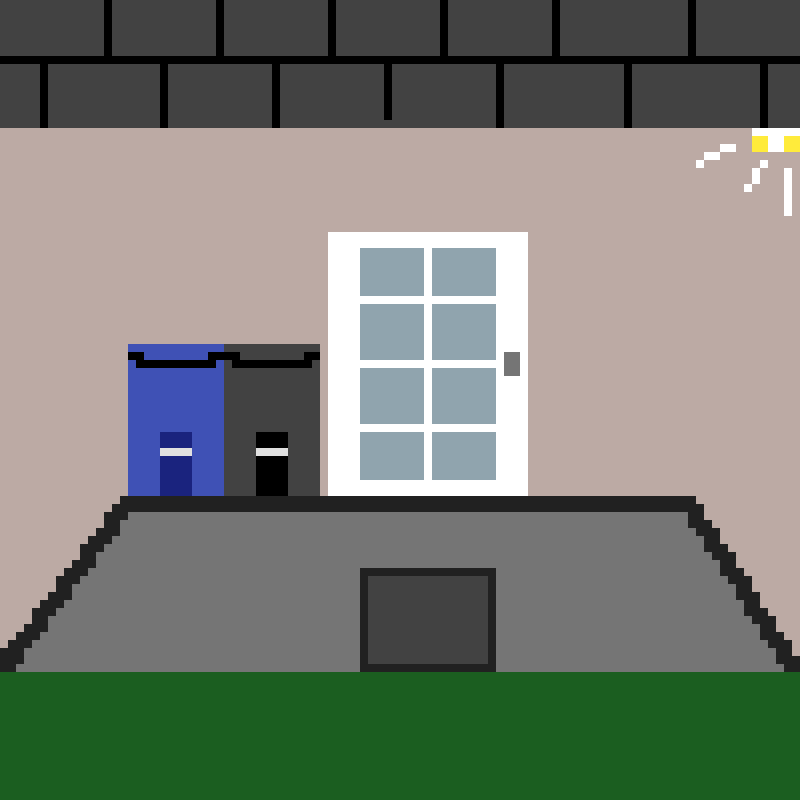
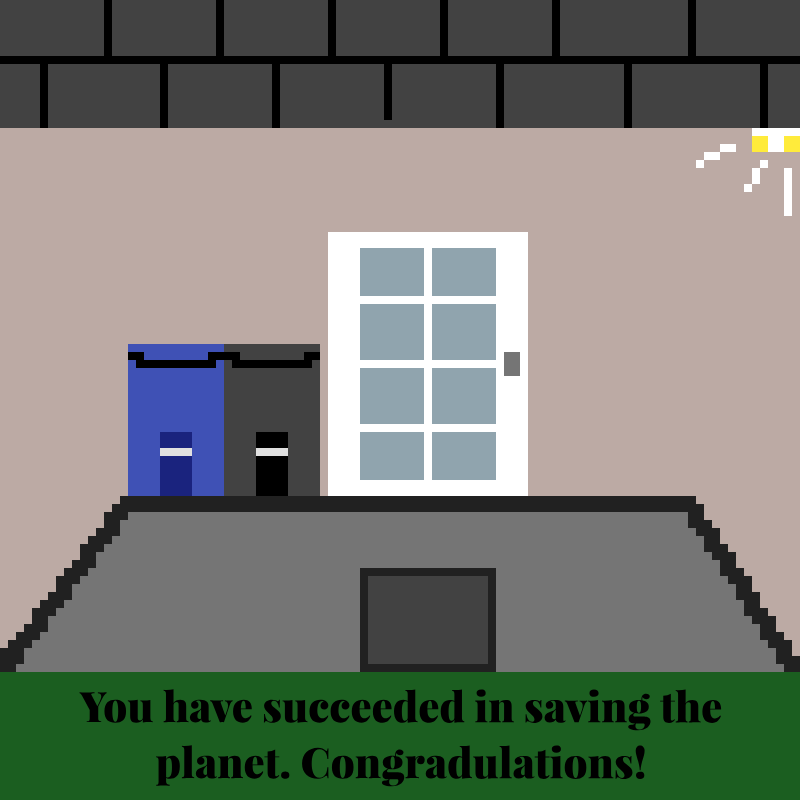
End

Changed region(s): [[0.0938, 0.8438, 0.9062, 1.0], [0.1875, 0.9375, 0.3438, 1.0]]

diff --git a/Game.py b/Game.py
@@ -49,6 +49,7 @@ def game_intro():
         Lights()
         Recycle()
         Compost()
+        End()
 def text_objects(text,font):
     textSurface = font.render(text,True,black)
     return textSurface,textSurface.get_rect()
@@ -272,6 +273,15 @@ def Compost():
         print("Each year the average American throws away approximately 1,200 lbs of organic waste which includes grass, leaves, tree trimming and food waste that can be composted.")
         print("70% of the worlds waste can be composted.")
         print("On average it costs $35 per ton to compost waste, $50 per ton to landfill it and up to $75 per ton to incinerate it.")
+def End():
+    keys=pygame.key.get_pressed()
+    if keys [pygame.K_e]:
+        pygame.display.update()
+        pygame.time.wait(10)
+        pygame.display.flip()
+        image = pygame.image.load('finalimage.png').convert()
+        world.blit(image, [0,0])
+        pygame.display.flip()
 # def message_display(text):
 #     largeText = pygame.font.Font('freesansbold.ttf',30)
 #     TextSurf, TextRect = text_objects(text, largeText)
